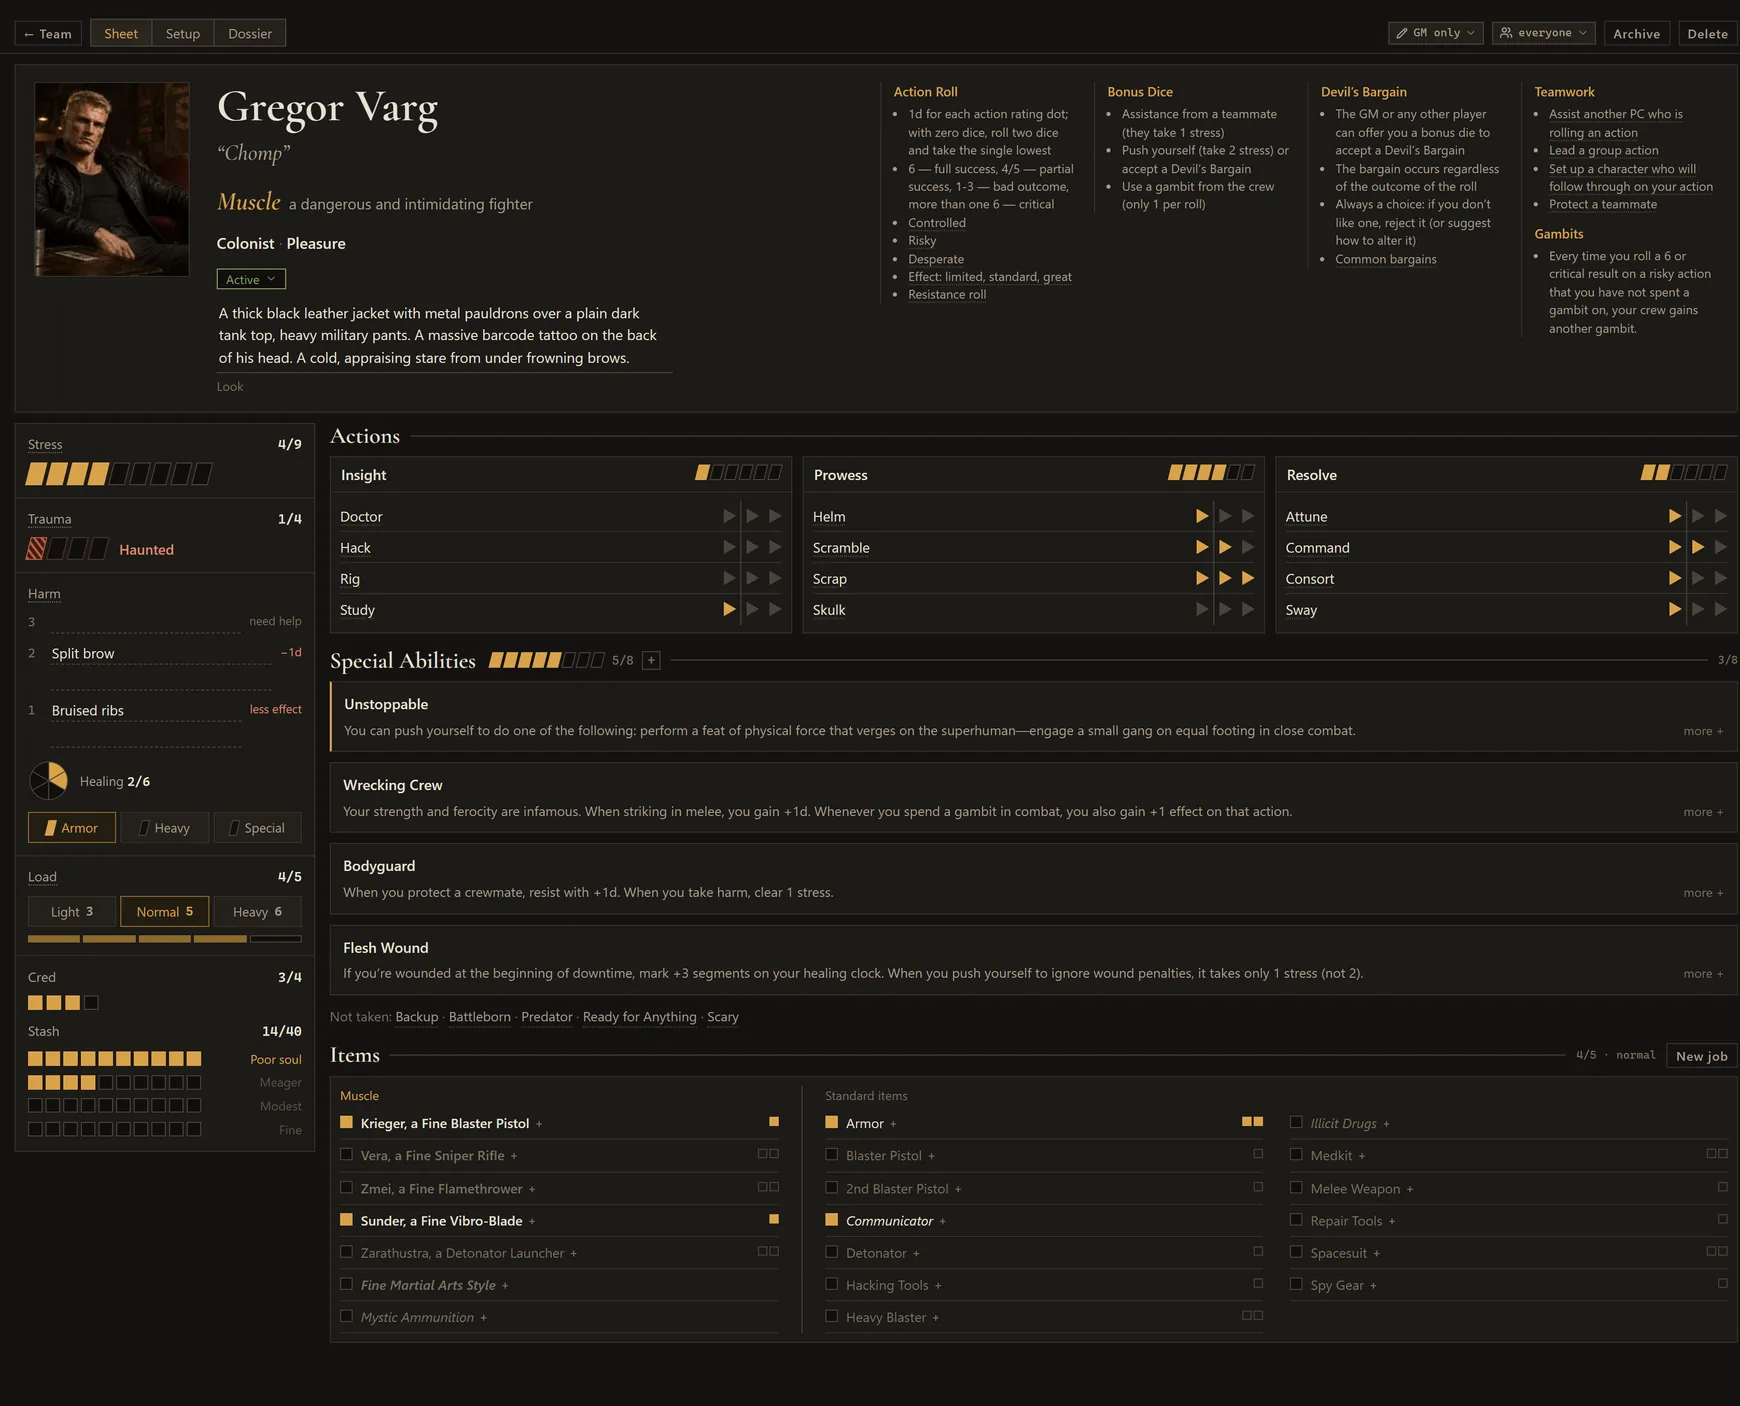
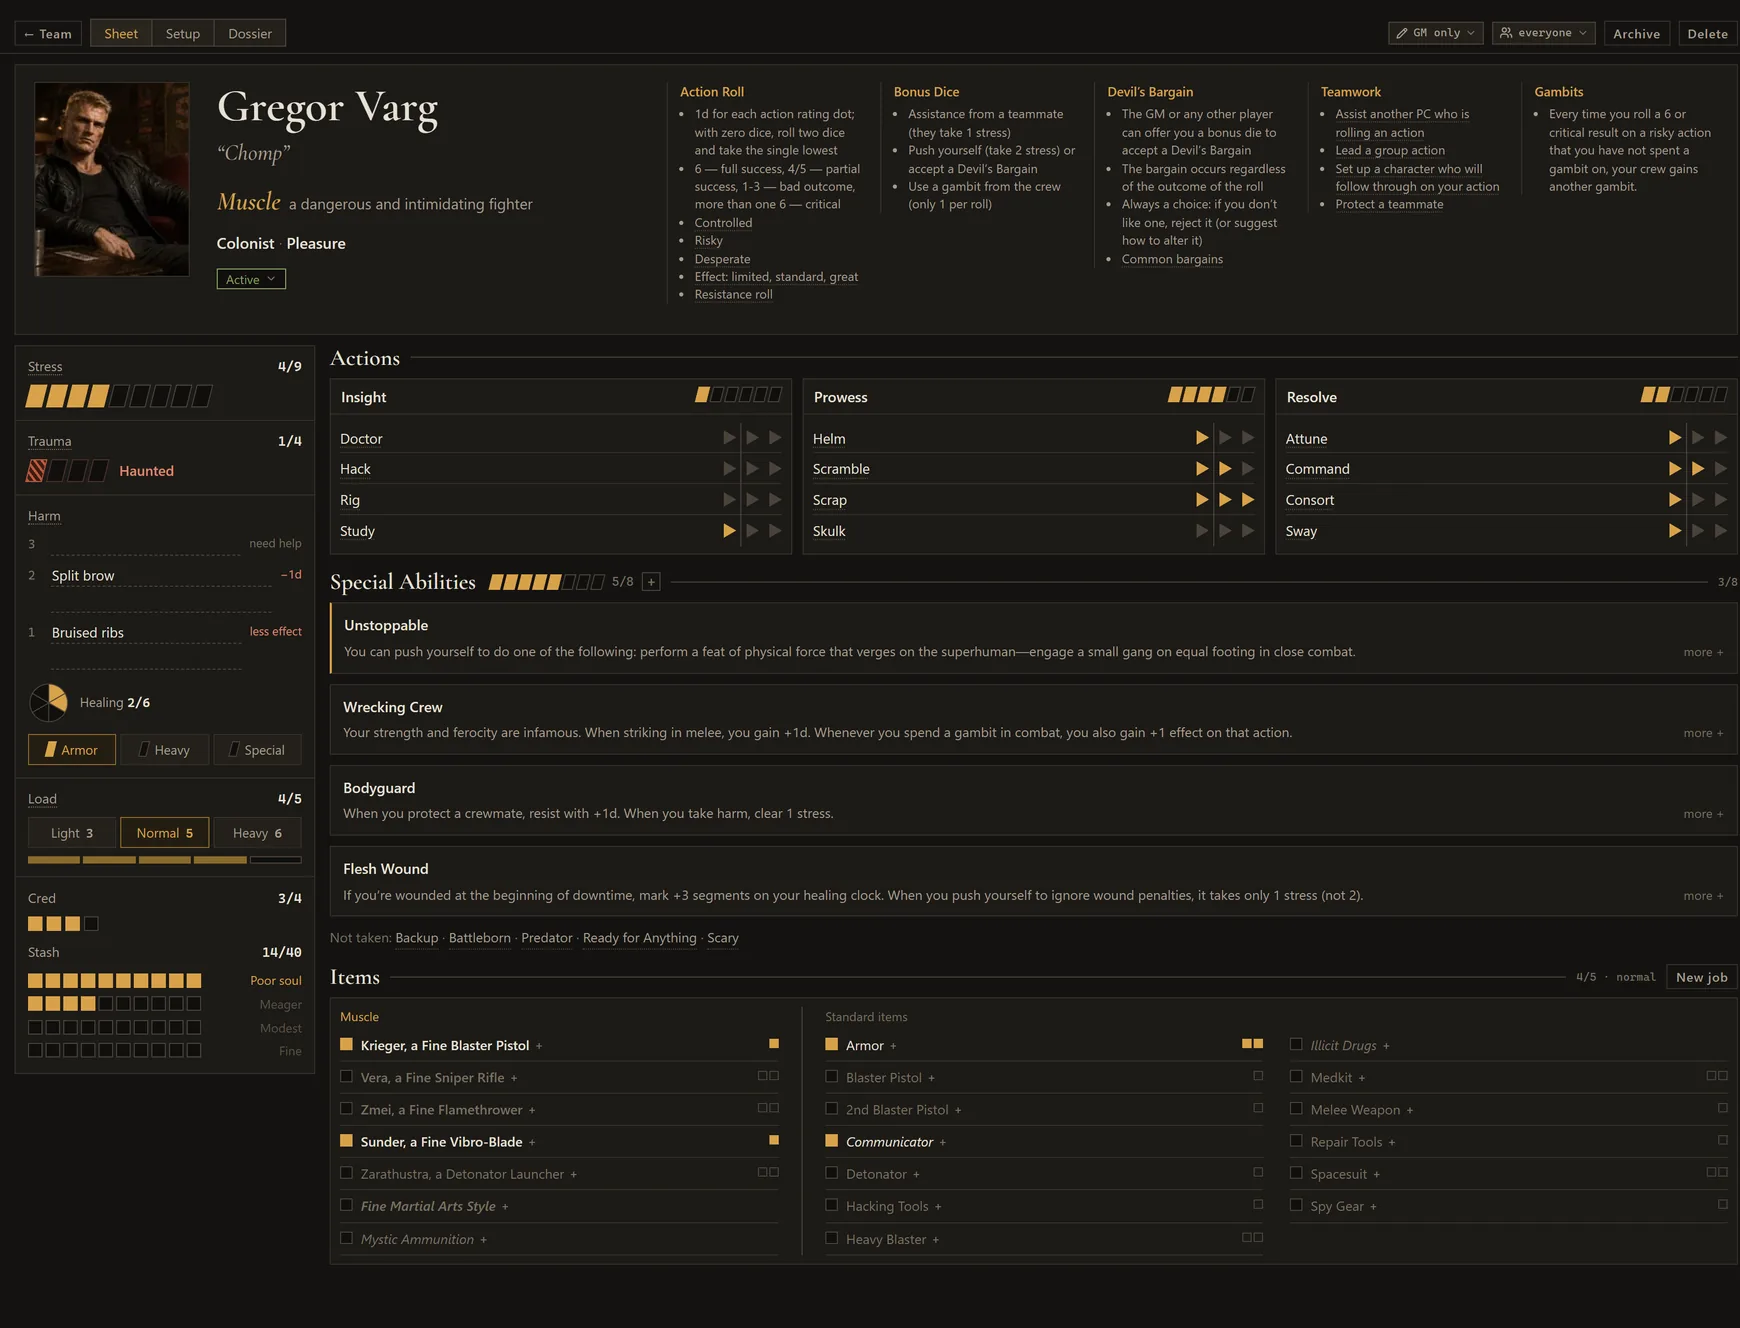
Character sheet without the look in the header; asset inventory by lifestyle

diff --git a/ru/index.html b/ru/index.html
@@ -174,7 +174,7 @@
       </div>
       <div class="slides">
         <div class="pane"><div class="scroll"><img src="../shots/ru/ship_full.webp" alt="Бланк корабля целиком" loading="lazy" width="1740" height="4250"></div></div>
-        <div class="pane"><img src="../shots/ru/char_full.webp" data-zoom alt="Бланк персонажа" loading="lazy" width="1740" height="1429"></div>
+        <div class="pane"><img src="../shots/ru/char_full.webp" data-zoom alt="Бланк персонажа" loading="lazy" width="1740" height="1365"></div>
         <div class="pane"><div class="scroll"><img src="../shots/ru/char_dossier.webp" alt="Досье персонажа" loading="lazy" width="1740" height="2275"></div></div>
       </div>
     </div>

diff --git a/index.html b/index.html
@@ -174,7 +174,7 @@
       </div>
       <div class="slides">
         <div class="pane"><div class="scroll"><img src="shots/ship_full.webp" alt="The full ship sheet" loading="lazy" width="1740" height="4250"></div></div>
-        <div class="pane"><img src="shots/char_full.webp" data-zoom alt="A character sheet" loading="lazy" width="1740" height="1406"></div>
+        <div class="pane"><img src="shots/char_full.webp" data-zoom alt="A character sheet" loading="lazy" width="1740" height="1328"></div>
         <div class="pane"><div class="scroll"><img src="shots/char_dossier.webp" alt="A character dossier" loading="lazy" width="1740" height="2304"></div></div>
       </div>
     </div>
